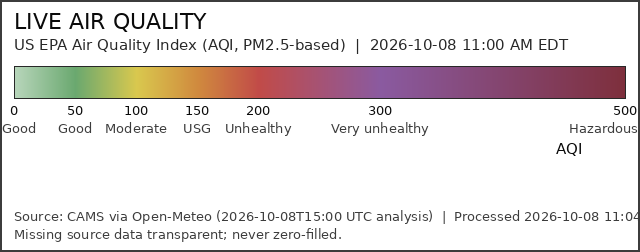
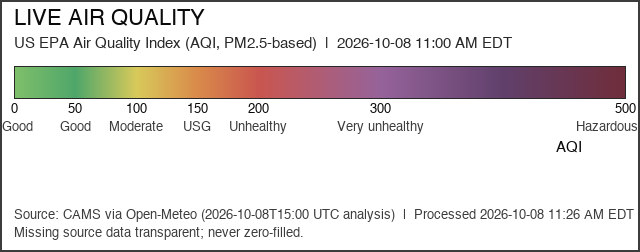
Air quality slider in user eight-color palette
- Stops 0/50/100/150/200/300/400/500: Light Green #7FBF6A, Green
  #4FA66A, Yellow #D8C95A, Orange #D98A4A, Red #C9564F, Purple
  #95639A, Dark Purple #60406B, Mahogany #702D3A (EPA boundaries
  untouched; Dark Purple anchors mid-Hazardous); render tag g7;
  rebuilt (26 distinct colors on current data); validation green

diff --git a/scripts/build_air_quality.py b/scripts/build_air_quality.py
@@ -39,17 +39,18 @@ API = "https://air-quality-api.open-meteo.com/v1/air-quality"
 # professional standard for US public air-quality reporting. The source
 # variable stays CAMS PM2.5 (ug/m3); it is converted to AQI via the EPA
 # PM2.5 breakpoint table so the SAME index the public sees on AirNow is
-# what the gradient paints. Steady gradual ramp across the fixed 0-500
-# scale: balanced muted colors, one family per category, distinct enough
-# to tell apart but never neon.
-AQI_STOPS = [
-    (0.0, (184, 214, 187)),    # Good: pale green at cleanest
-    (50.0, (106, 168, 111)),   # Good: sage green
-    (100.0, (217, 200, 78)),   # Moderate: muted gold
-    (150.0, (208, 138, 62)),   # USG: muted orange
-    (200.0, (193, 75, 72)),    # Unhealthy: brick red
-    (300.0, (138, 90, 160)),   # Very unhealthy: muted purple
-    (500.0, (126, 47, 60)),    # Hazardous: muted maroon
+# what the gradient paints. Steady gradual slider across the fixed 0-500
+# scale in the user's eight-color palette (EPA boundaries untouched; the
+# extra Dark Purple anchor sits mid-Hazardous so all eight colors run).
+AQI_STOPS = [  # (AQI, rgb) user palette, in order
+    (0.0, (127, 191, 106)),    # Light Green #7FBF6A (Good, cleanest)
+    (50.0, (79, 166, 106)),    # Green #4FA66A (Good)
+    (100.0, (216, 201, 90)),   # Yellow #D8C95A (Moderate)
+    (150.0, (217, 138, 74)),   # Orange #D98A4A (USG)
+    (200.0, (201, 86, 79)),    # Red #C9564F (Unhealthy)
+    (300.0, (149, 99, 154)),   # Purple #95639A (Very Unhealthy)
+    (400.0, (96, 64, 107)),    # Dark Purple #60406B (Hazardous)
+    (500.0, (112, 45, 58)),    # Mahogany/Burgundy #702D3A (Hazardous+)
 ]
 STOPS = AQI_STOPS
 LABELS = [(25.0, "25 Good"), (75.0, "75 Moderate"),
@@ -60,15 +61,15 @@ KEY_TICKS = [(0.0, "0", "Good"), (50.0, "50", "Good"),
              (200.0, "200", "Unhealthy"), (300.0, "300", "Very unhealthy"),
              (500.0, "500", "Hazardous")]
 SCALE_HTML = ("US EPA Air Quality Index (AQI, PM2.5-based, steady "
-              "gradual 0-500 scale): <b>0-50</b> Good, pale green "
-              "deepening to green &rarr; <b>51-100</b> Moderate gold "
+              "gradual 0-500 slider): <b>0-50</b> Good, light green "
+              "deepening to green &rarr; <b>51-100</b> Moderate yellow "
               "&rarr; <b>101-150</b> Unhealthy for Sensitive Groups "
-              "orange &rarr; <b>151-200</b> Unhealthy brick red &rarr; "
+              "orange &rarr; <b>151-200</b> Unhealthy red &rarr; "
               "<b>201-300</b> Very Unhealthy purple &rarr; <b>301-500</b> "
-              "Hazardous maroon. Balanced muted colors, distinct per "
-              "category, never neon. Same AQI always shows the same "
-              "color. CAMS PM2.5 model analysis converted via EPA PM2.5 "
-              "breakpoints — not station observations.")
+              "Hazardous dark purple to mahogany/burgundy. Same AQI "
+              "always shows the same color. CAMS PM2.5 model analysis "
+              "converted via EPA PM2.5 breakpoints — not station "
+              "observations.")
 # EPA PM2.5 (ug/m3, 24-hr) -> AQI breakpoints: (c_lo, c_hi, aqi_lo, aqi_hi)
 PM25_AQI_BP = [
     (0.0, 12.0, 0, 50),

diff --git a/scripts/selftest.py b/scripts/selftest.py
@@ -724,12 +724,18 @@ def main():
     _aq_vals = [v for v, _ in _AQ_STOPS]
     check("aqi-scale-0-500",
           bool(_aq_vals == [0.0, 50.0, 100.0, 150.0, 200.0, 300.0,
-                            500.0]),
+                            400.0, 500.0]),
           _aq_vals)
     check("aqi-scale-ascending",
           all(b > a for a, b in zip(_aq_vals, _aq_vals[1:])))
-    # steady gradual ramp: every category boundary owns a distinct
-    # balanced color (no flat segment can hide basin variation, no neon)
+    # user eight-color slider palette, in order, no neon
+    check("aqi-user-palette",
+          bool([c for _, c in _AQ_STOPS]
+                == [(127, 191, 106), (79, 166, 106), (216, 201, 90),
+                    (217, 138, 74), (201, 86, 79), (149, 99, 154),
+                    (96, 64, 107), (112, 45, 58)]))
+    # steady gradual slider: every category boundary owns a distinct
+    # color (no flat segment can hide basin variation)
     from gradient_scale import color_for as _cf_aq
     _aq_band = [_cf_aq(v, _AQ_STOPS) for v in
                 [0.0, 50.0, 100.0, 150.0, 200.0, 300.0, 500.0]]
@@ -737,11 +743,6 @@ def main():
     check("aqi-good-ramps",
           bool(_cf_aq(0.0, _AQ_STOPS) != _cf_aq(25.0, _AQ_STOPS)
                 != _cf_aq(50.0, _AQ_STOPS)))
-    check("aqi-balanced-not-neon",
-          bool(all(max(c) - min(c) < 255 for c in _aq_band)
-                and (0, 228, 0) not in _aq_band
-                and (255, 255, 0) not in _aq_band
-                and (255, 0, 0) not in _aq_band))
     _aq_words = " ".join(w for _, _, w in _AQ_TICKS)
     for _w in ("Good", "Moderate", "USG", "Unhealthy", "Very unhealthy",
                "Hazardous"):

diff --git a/scripts/live_field.py b/scripts/live_field.py
@@ -41,7 +41,7 @@ RENDER_TAGS = {
     "visibility": "g8",
     "humidity": "g2",
     "light_pollution": "g4",
-    "air_quality": "g6",
+    "air_quality": "g7",
     "condensation": "g4",
     "fog": "g5",
     "dew_point": "g2",
